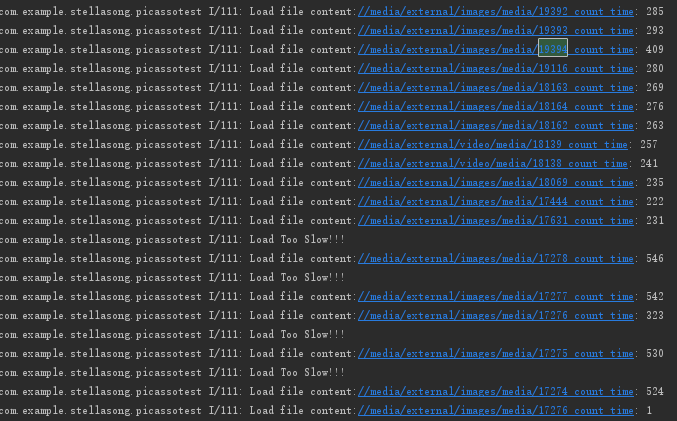
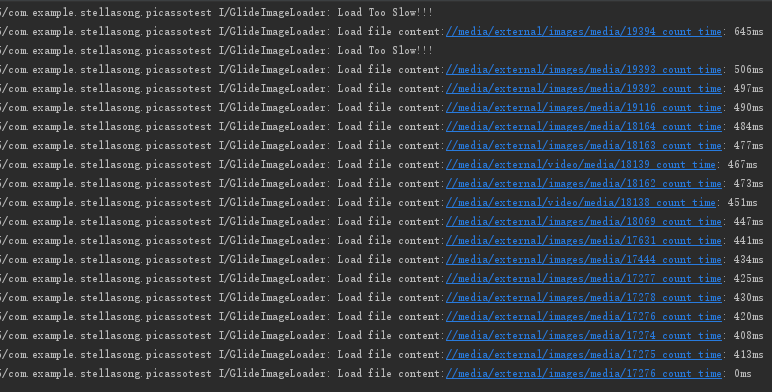
add ms

diff --git a/PicassoTest/app/src/main/java/com/example/stellasong/picassotest/GlideImageLoader.java b/PicassoTest/app/src/main/java/com/example/stellasong/picassotest/GlideImageLoader.java
@@ -14,7 +14,7 @@ import com.youth.banner.loader.ImageLoader;
 import static android.widget.Toast.LENGTH_LONG;
 
 public class GlideImageLoader extends ImageLoader implements VanImageLoader {
-    private static final String TAG = "111";
+    private static final String TAG = "GlideImageLoader";
 
     @Override
     public void displayImage(Context context, Object path, ImageView imageView) {
@@ -32,8 +32,10 @@ public class GlideImageLoader extends ImageLoader implements VanImageLoader {
                     @Override
                     public void onSuccess() {
                         long countTime = System.currentTimeMillis() - currentLoadStartTime;
-                        if (countTime >= 500)  Log.i(TAG, "Load Too Slow!!!");
-                        Log.i(TAG, "Load file " + uri.toString() + " count time: " + countTime);
+                        if (countTime >= 500) {
+                            Log.i(TAG, "Load Too Slow!!!");
+                        }
+                        Log.i(TAG, "Load file " + uri.toString() + " count time: " + countTime + "ms");
                     }
 
                     @Override

diff --git a/PicassoTest/app/src/main/java/com/example/stellasong/picassotest/MainActivity.java b/PicassoTest/app/src/main/java/com/example/stellasong/picassotest/MainActivity.java
@@ -30,24 +30,20 @@ public class MainActivity extends AppCompatActivity {
     protected void onCreate(Bundle savedInstanceState) {
         super.onCreate(savedInstanceState);
         setContentView(R.layout.activity_main);
-        Button bt = (Button) findViewById(R.id.bt);
+        Button bt = findViewById(R.id.bt);
         bt.setOnClickListener(new View.OnClickListener() {
 
             @Override
             public void onClick(View v) {
-                addPicasso(true);
+                addPicasso();
             }
         });
     }
 
-    public void addPicasso(boolean isGranted) {
-        if (!isGranted) {
-            return;
-        }
-
+    public void addPicasso() {
         VanGogh.from(MainActivity.this)
                 .choose(VanMediaType.ofAll())
-                .countable(false)//若开启裁剪，则无效
+                .countable(false)
                 .rowCount(3)
                 .cameraVisible(true, getPackageName())
                 .withResultSize(1024, 1024)
